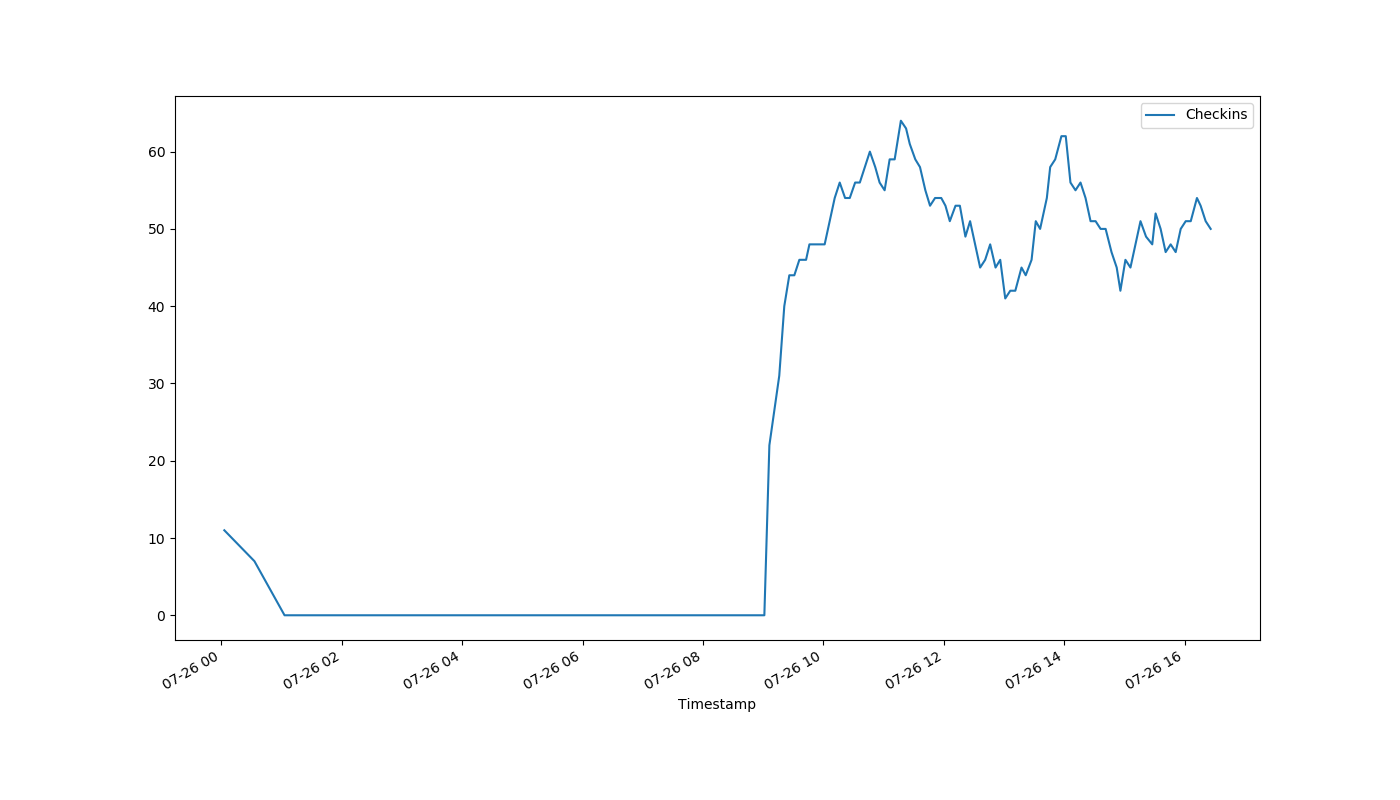
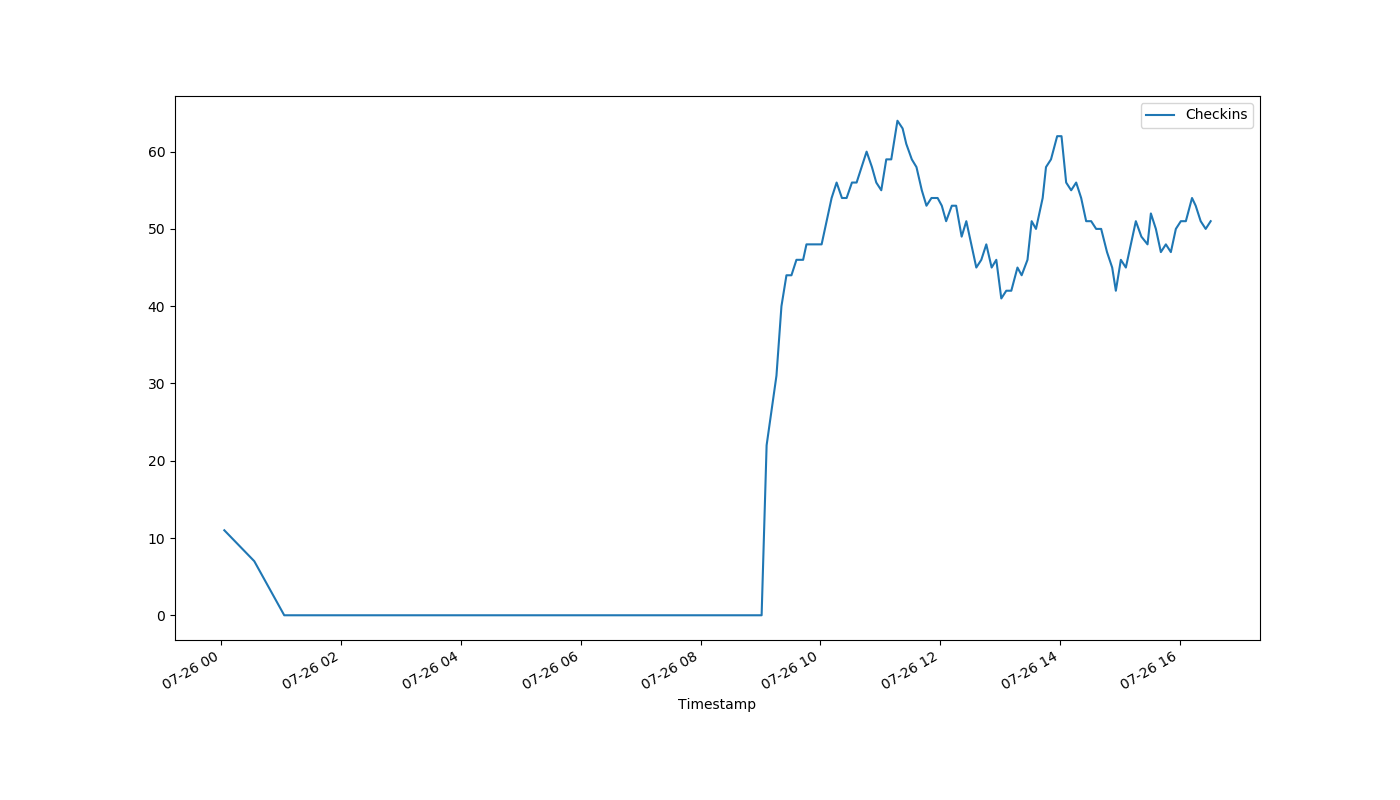
auto-Jul-26-16:32:39

diff --git a/index.html b/index.html
@@ -1,1 +1,1 @@
-<!DOCTYPE html><html><head><meta http-equiv="refresh" content="30"><link rel='stylesheet' href='holmcurrent.css'></head><body><p id='count'>50</p><div id='graph-wrap'><img id='graph' src='holmgraph-Jul-26.png'></div><p id='updated'>Last updated 16:26:10 / 16:26:01</p></body></html>
+<!DOCTYPE html><html><head><meta http-equiv="refresh" content="30"><link rel='stylesheet' href='holmcurrent.css'></head><body><p id='count'>51</p><div id='graph-wrap'><img id='graph' src='holmgraph-Jul-26.png'></div><p id='updated'>Last updated 16:31:11 / 16:31:01</p></body></html>
